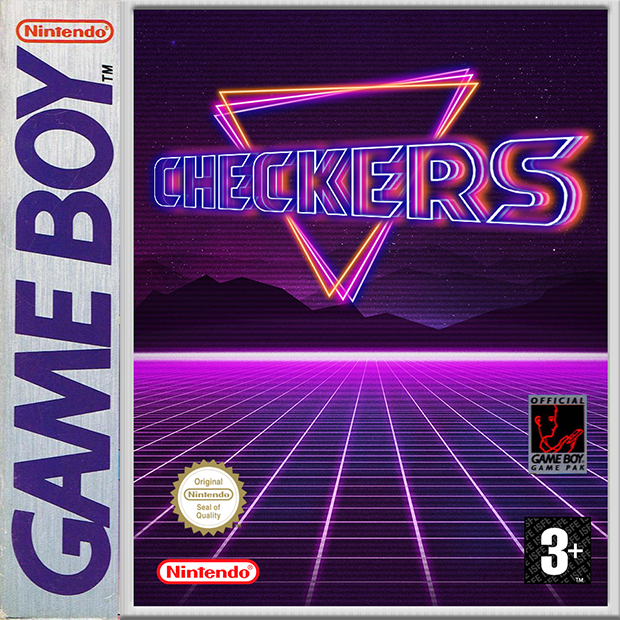
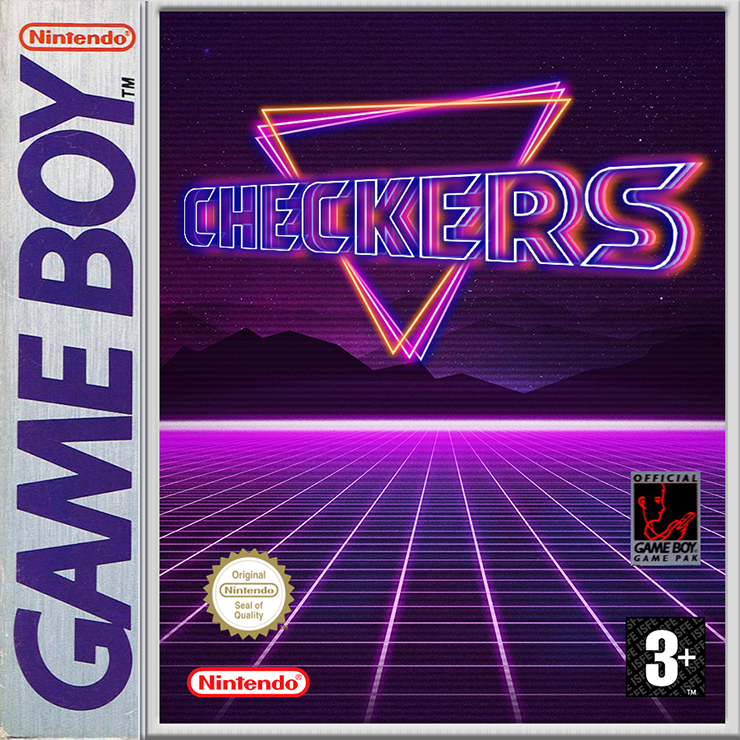
menu v0.2
Window size, buttons, new window

diff --git a/Menu.py b/Menu.py
@@ -1,17 +1,64 @@
 from tkinter import *
+import os
+
+h = 740
+w = 740
 
 class Menu:
     def __init__(self, canevas):
         self.can = canevas
 
-h = 620
-w = 620
+def Jouer():
+    print("Changement d'écran")
+
+def ClearPlay():
+    fenMenu.destroy()
+    # PRESELECT MENU
+    preMenu = Tk()
+    preMenu.title("Checkers")
+    preMenu.resizable(0, 0)
+    ws = preMenu.winfo_screenwidth()  # width of the screen
+    hs = preMenu.winfo_screenheight()  # height of the screen
+    x = (ws / 2) - (w / 2)
+    y = (hs / 2) - (h / 2)
+    preMenu.geometry('%dx%d+%d+%d' % (w, h, x, y))
+    canPreMenu = Canvas(preMenu, bg='dark grey', height=h, width=w)
+    canPreMenu.pack(side=LEFT)
+
+def ClearOptions():
+    pass
 
 fenMenu = Tk()
+fenMenu.title("Checkers")
+fenMenu.resizable(0, 0)
+ws = fenMenu.winfo_screenwidth() # width of the screen
+hs = fenMenu.winfo_screenheight() # height of the screen
+x = (ws/2) - (w/2)
+y = (hs/2) - (h/2)
+fenMenu.geometry('%dx%d+%d+%d' % (w, h, x, y))
+
+# MAIN MENU
 can = Canvas(fenMenu, bg='dark grey',height=h,width=w)
 can.pack(side=LEFT)
 img = PhotoImage(file='assets/Checkers.png')
 can.create_image(h, w, image=img, anchor='se')
+
+#region Buttons
+buttonPosX = h/2 + 15
+buttonPosY = w/2 + 10
+
+playB = Button(fenMenu, text="Play", command=ClearPlay)
+playB.pack()
+playB.place(x=buttonPosX, y=buttonPosY, width=50)
+
+optionB = Button(fenMenu, text="Options", command=ClearOptions)
+optionB.pack()
+optionB.place(x=buttonPosX, y=buttonPosY+50, width=50)
+
+creditsB = Button(fenMenu, text="Credits", command=ClearOptions)
+creditsB.pack()
+creditsB.place(x=buttonPosX, y=buttonPosY+100, width=50)
+#endregion
 
 fenMenu.mainloop()                 # démarrage du réceptionnaire d'événement
 fenMenu.destroy()                  # destruction (fermeture) de la fenêtre

diff --git a/Dame.py b/Dame.py
@@ -67,10 +67,12 @@ class Dame:
 
 # Création du widget principal ("maître") :
 fen1 = Tk()
+fen1.resizable(0, 0)
 
 # Création des widgets "esclaves" :
-can1 = Canvas(fen1,bg='dark grey',height=620,width=620)
+can1 = Canvas(fen1,bg='dark grey',height=740,width=740)
 can1.pack(side=LEFT)
+
 
 #Creation des dames
 d = Dame(can1)
